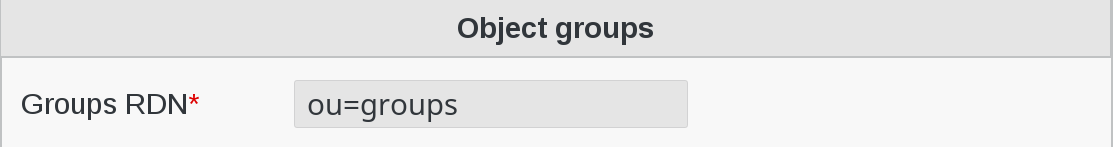
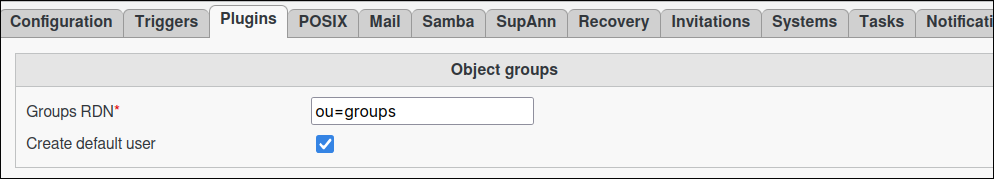
docs(groups): add information about default user placeholder in group membership

Changed region(s): [[0.0, 0.0, 1.0, 1.0], [0.2495, 0.517, 0.6237, 0.8707], [0.0, 0.5714, 0.1871, 0.8435]]

diff --git a/source/fusiondirectory/core/groups.rst b/source/fusiondirectory/core/groups.rst
@@ -7,6 +7,13 @@ This page is for groups and roles management.
 
    In big groups, you can encounter a PHP fatal error. When it happened you can adapt your PHP configuration with the next value "pcre.backtrack_limit=10000000"
 
+.. note::
+
+   FusionDirectory can automatically add a *default user* to groups if the administrator enables the ``fdOGroupDefaultUser`` setting in the configuration.  
+   This default user is represented by the DN ``uid=default,ou=nonexistent,BASE_DN`` and acts as a placeholder for group membership.  
+   If this feature is enabled, you will see an entry labeled "Default user placeholder" in the group members list.  
+   If disabled, this entry will not appear.
+
 Click on Groups and roles icon on FusionDirectory main page
 
 .. image:: images/core-groups-and-roles-icon.png
@@ -90,5 +97,5 @@ Of course, you can also create groups, roles and POSIX groups from scratch, by c
 **Restore snapshots**: Restore snapshots of groups
 
 .. image:: images/core-action-restore-snapshots.png
-   :alt: Picture of restore snapshots menu in FusionDirectory      
-    
+   :alt: Picture of restore snapshots menu in FusionDirectory
+

diff --git a/source/fusiondirectory/configuration/configuration.rst b/source/fusiondirectory/configuration/configuration.rst
@@ -192,6 +192,8 @@ Object groups
    :alt: Image of Object groups menu in FusionDirectory   
    
 * **Groups RDN**: (required) Branch in which object groups will be stored.
+* **Default user for groups** When enabled, FusionDirectory will automatically add a *default user* (with DN ``uid=default,ou=nonexistent,BASE_DN``) as a member to all groups.
+This default user acts as a placeholder for group membership and will be visible in the group members list as "Default user placeholder". If disabled, this entry will not appear in groups.
 
 SASL
 ^^^^
